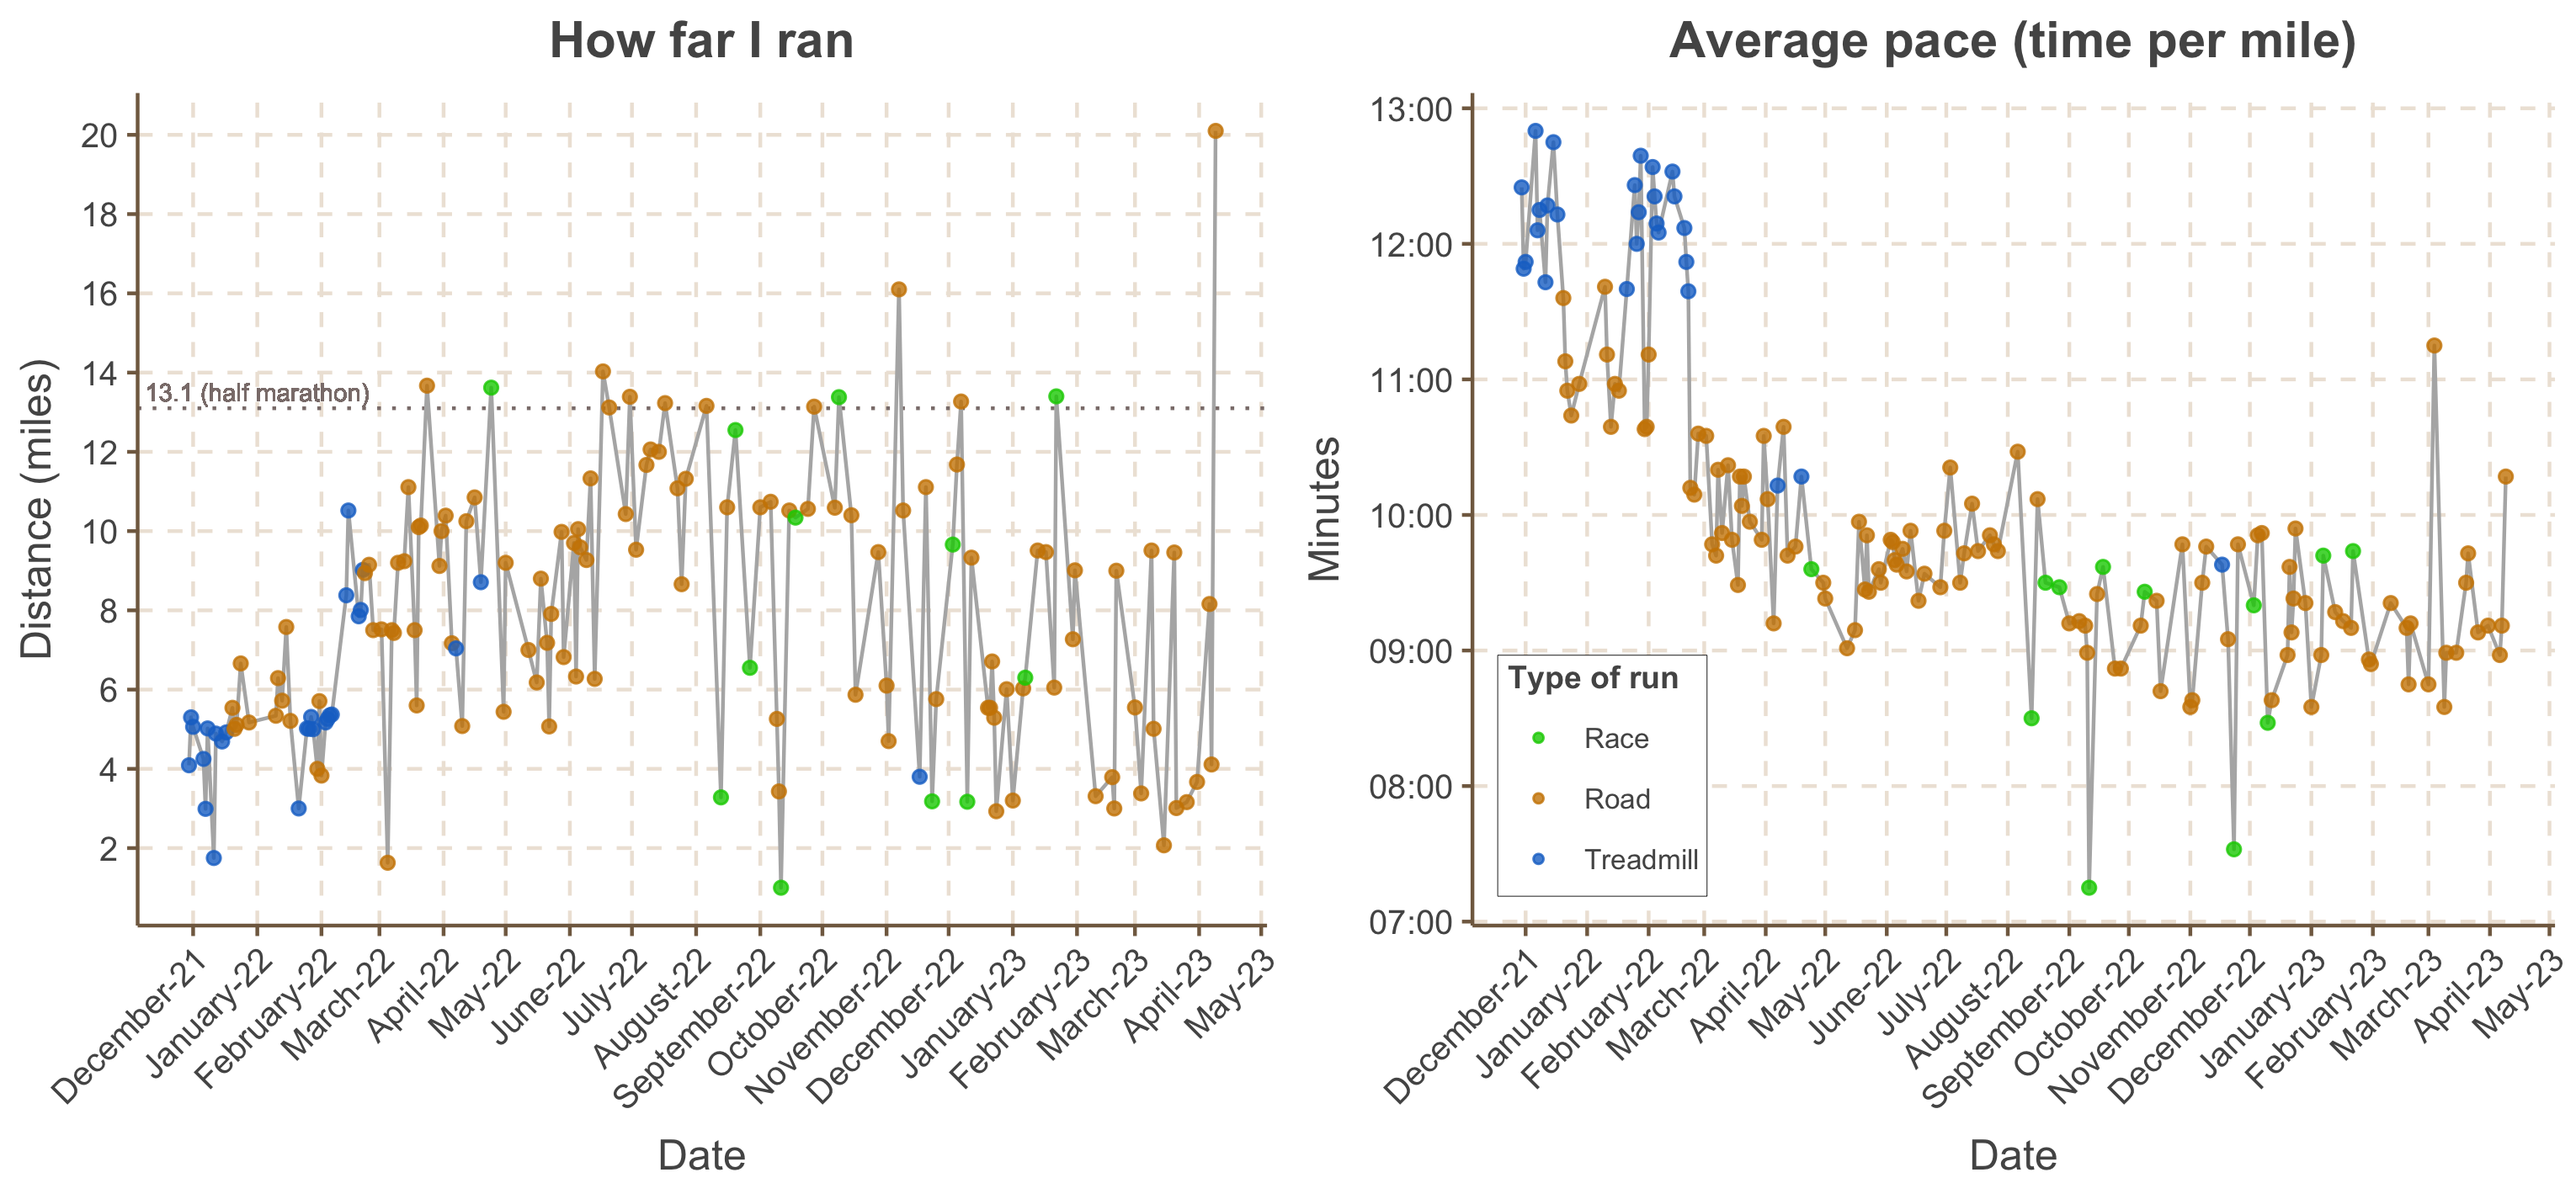
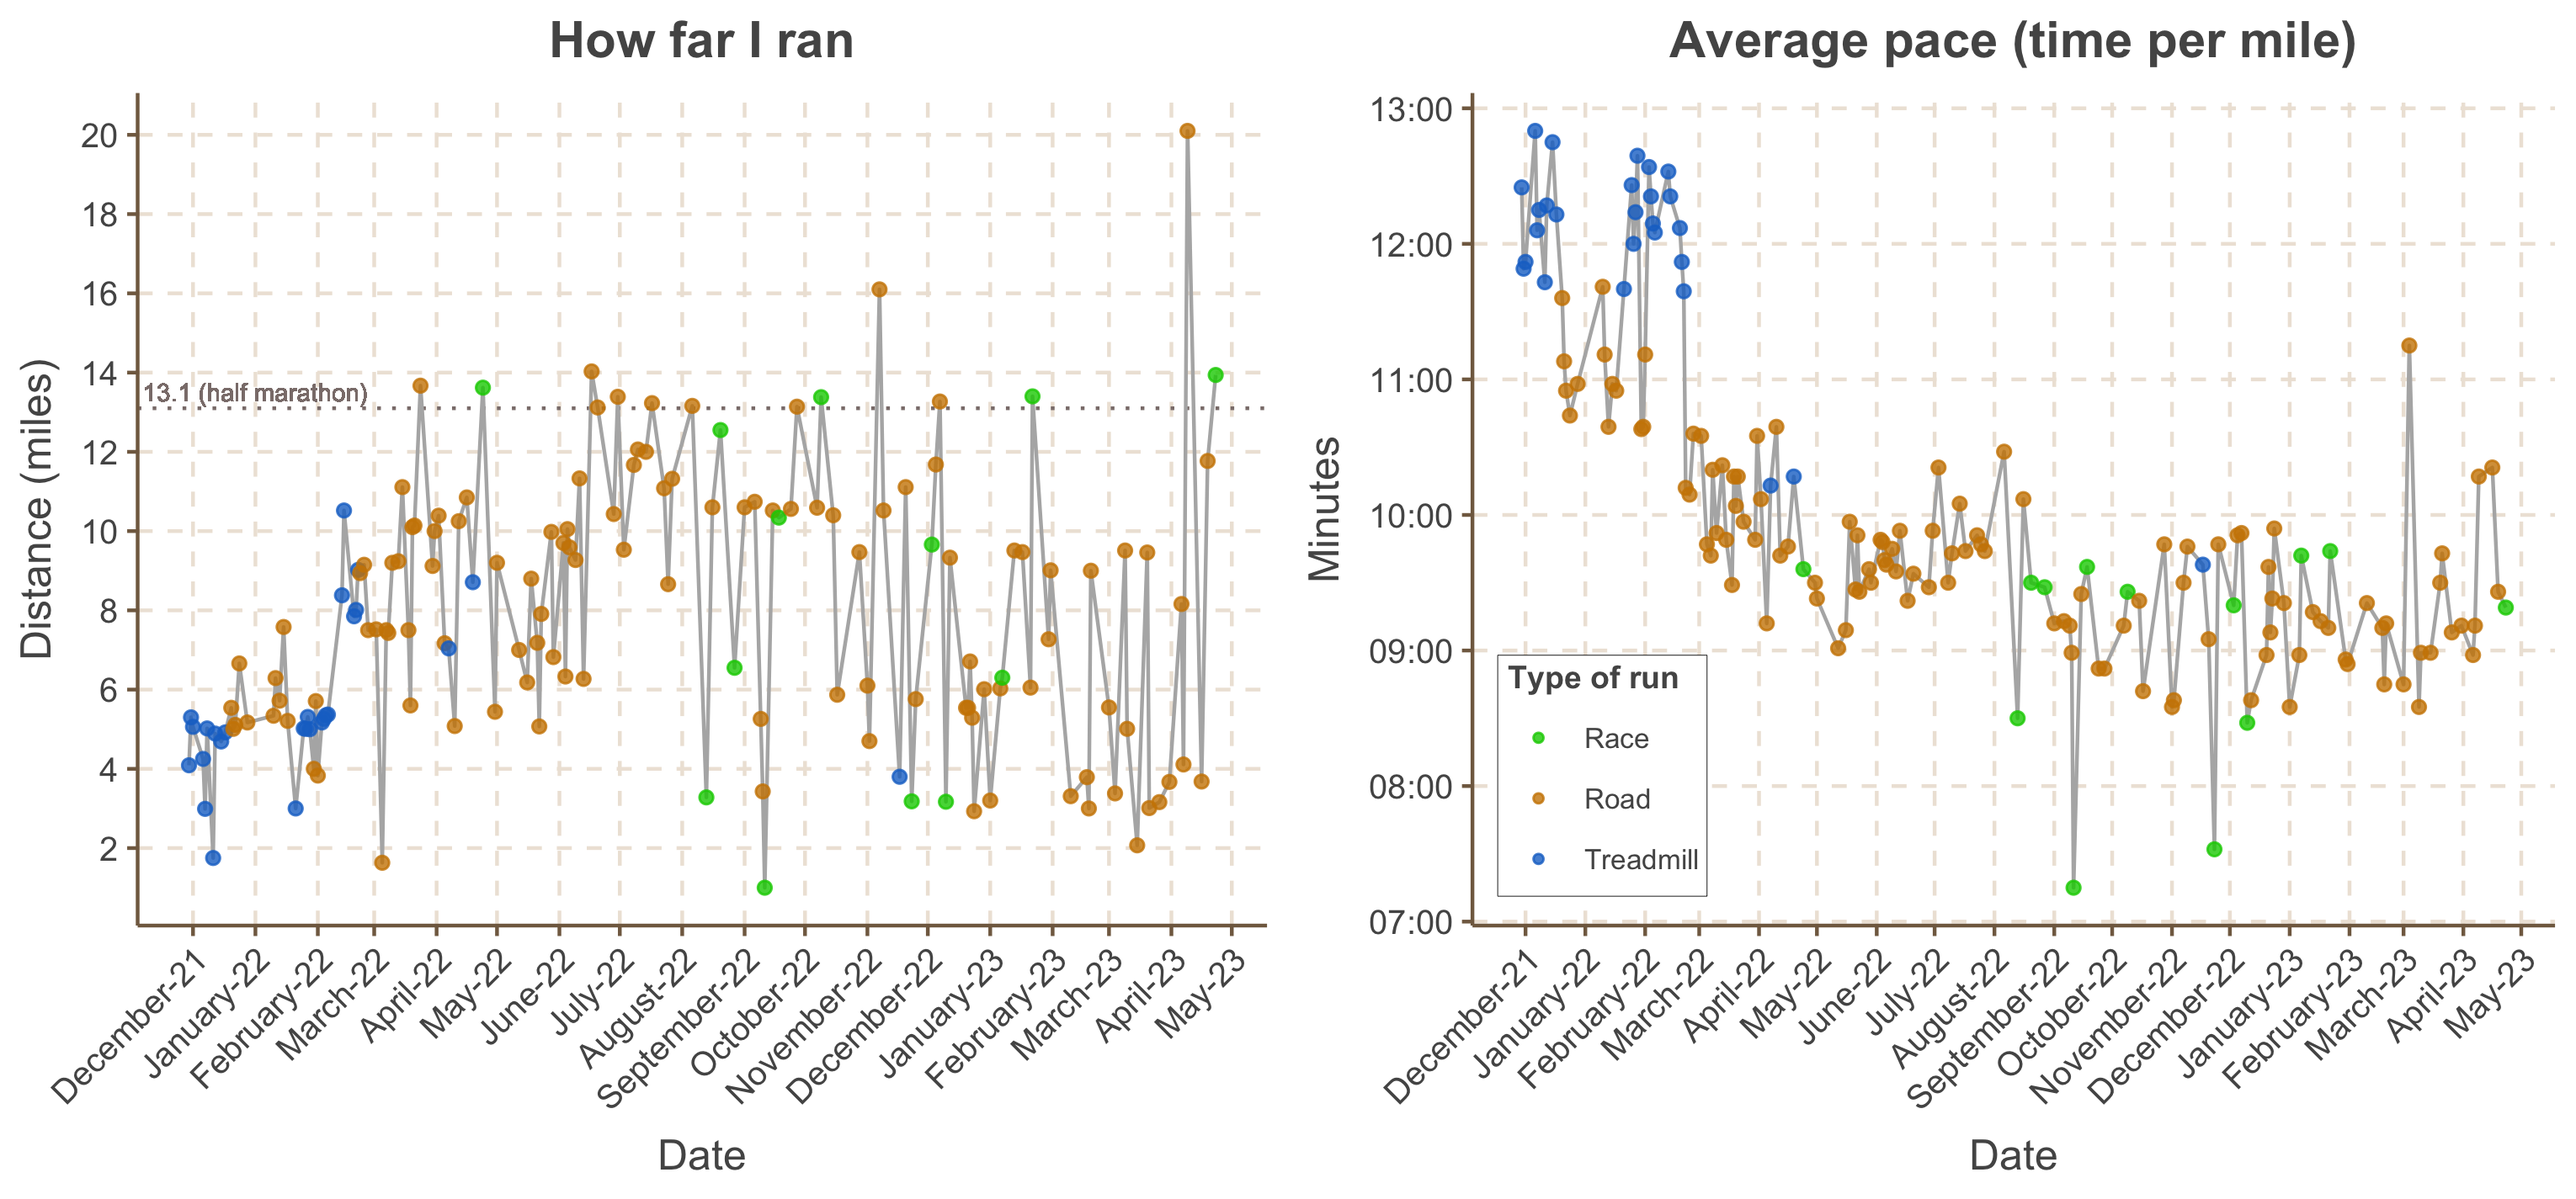
4/16/23 - 4/23/23

Changed region(s): [[0.0621, 0.0926, 0.4967, 0.9263], [0.5899, 0.1235, 0.9935, 0.7411], [0.5588, 0.7719, 0.9935, 0.9263]]

diff --git a/README.md b/README.md
@@ -18,20 +18,12 @@ p2 <- ggplot(runningData, aes(x=Date, y=Average_Pace)) + labs(y="Minutes", title
 ggarrange(p1, p2, nrow=1)
 ```
 
-![](Plots/README-Running-Plots-1.png)<!-- --> Total miles since
-11/29/21:
+![](Plots/README-Running-Plots-1.png)<!-- -->
+
+Total miles since 11/29/21:
 
 ``` r
 sum(runningData$Miles)
 ```
 
-    ## [1] 1175.87
-
-<!-- Average distance during the last 10 runs: -->
-<!-- ```{r} -->
-<!-- mean(tail(runningData$Miles, 10)) -->
-<!-- ``` -->
-<!-- Excluding races: -->
-<!-- ```{r} -->
-<!-- mean(tail(runningData$Miles[runningData$Treadmill_Road != "Race"], 10)) -->
-<!-- ``` -->
+    ## [1] 1205.26
